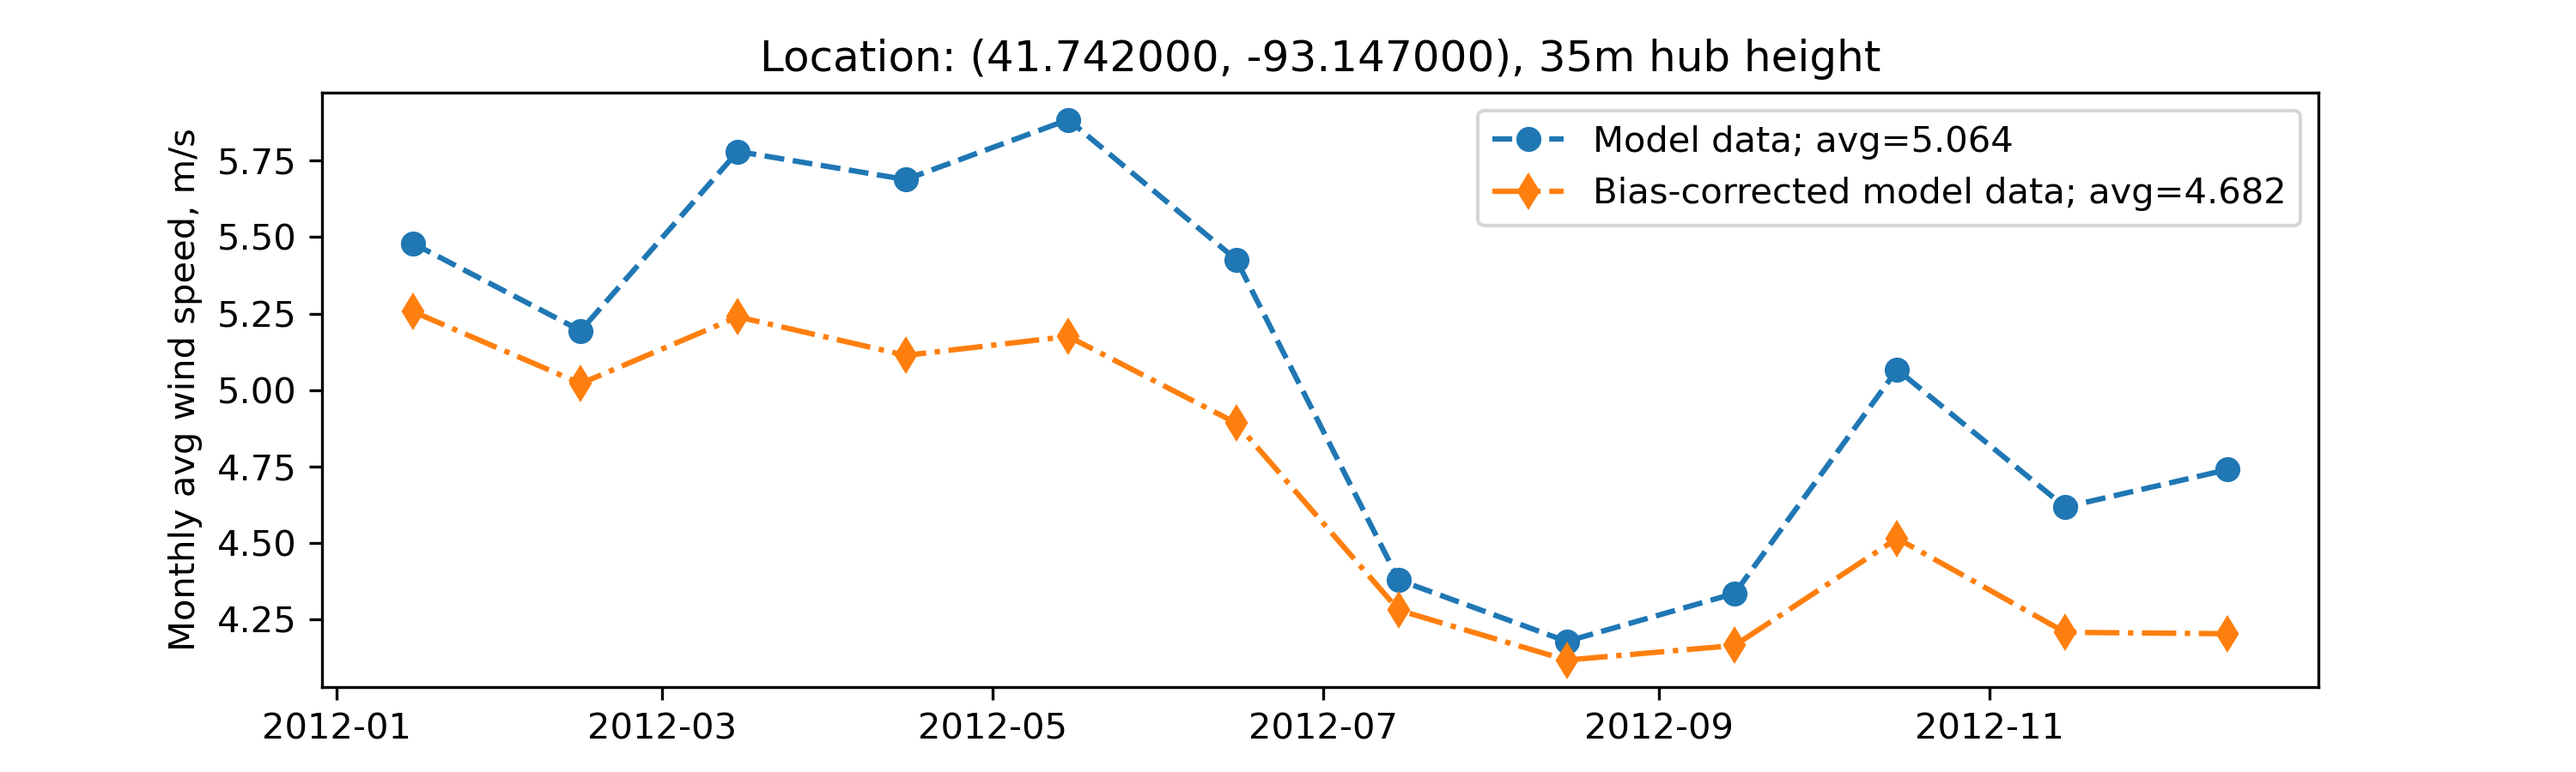
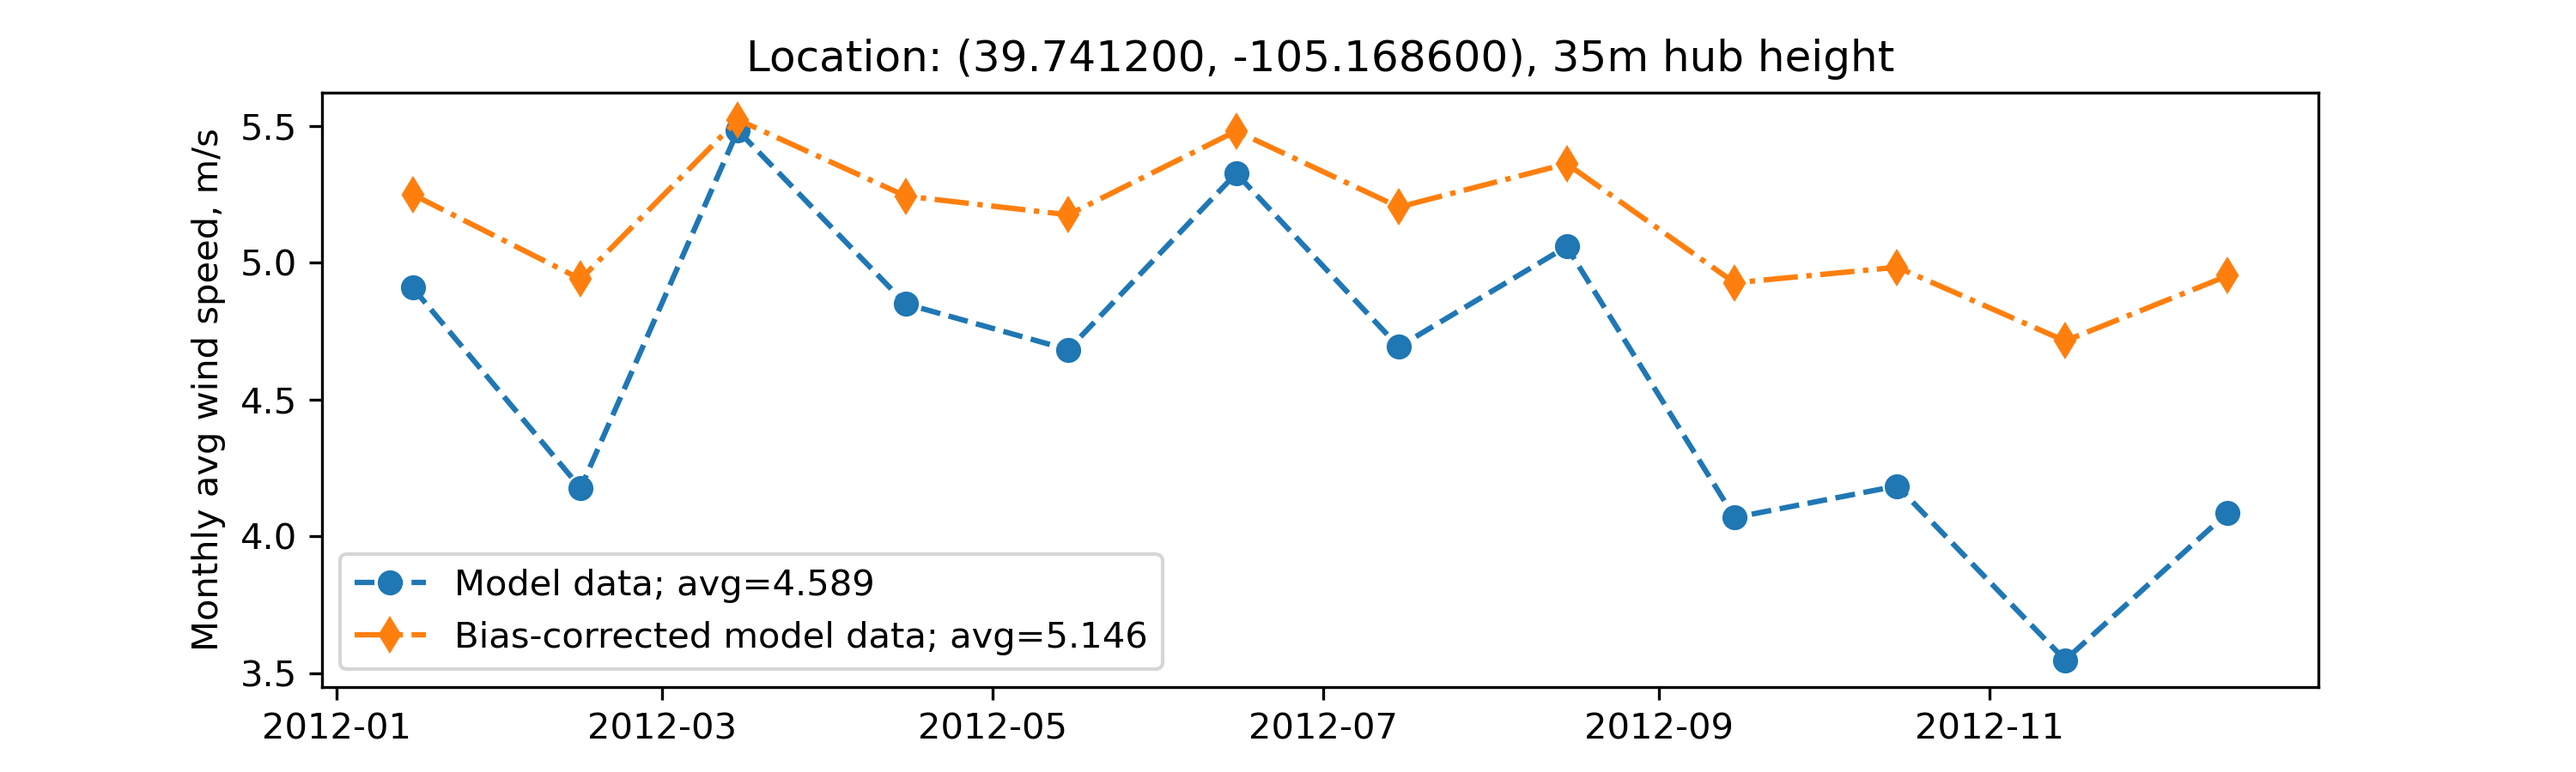
More frontend polishing

diff --git a/templates/info.html b/templates/info.html
@@ -235,22 +235,22 @@
             </tr>
           <tr>
             <td><strong>Plot monthly averages</strong></td>
-            <td><a href="http://localhost:8080/monthly?height=65.00m&lat=39.743&lon=-105.147&year=2012,2013" target="_blank">http://localhost:8080/monthly?<mark>height=65.00m</mark>&<mark>lat=39.743</mark>&<mark>lon=-105.147</mark>&<mark>year=2013</mark></a></td>
+            <td><a href="http://localhost:8080/monthly?height=35.00m&lat=39.7412&lon=-105.1686&year=2012,2013" target="_blank">http://localhost:8080/monthly?<mark>height=35.00m</mark>&<mark>lat=39.7412</mark>&<mark>lon=-105.1686</mark>&<mark>year=2013</mark></a></td>
             <td>Aggregate to monthly averages and show one or several years of model data.</td>
           </tr>
           <tr>
             <td><strong>12x24 (hourly x monthly) summary</strong></td>
-            <td><a href="http://localhost:8080/12x24?height=65.00m&lat=39.743&lon=-105.147&year=2012" target="_blank">http://localhost:8080/12x24?<mark>height=65.00m</mark>&<mark>lat=39.743</mark>&<mark>lon=-105.147</mark></a></td>
+            <td><a href="http://localhost:8080/12x24?height=35.00m&lat=39.7412&lon=-105.1686&year=2012" target="_blank">http://localhost:8080/12x24?<mark>height=35.00m</mark>&<mark>lat=39.7412</mark>&<mark>lon=-105.1686</mark></a></td>
             <td>This summary allows seeing diurnal and seasonal patterns in wind data.</td>
           </tr>
           <tr>
             <td><strong>Raw time series</strong></td>
-            <td><a href="http://localhost:8080/ts?height=65.00m&lat=39.743&lon=-105.147&year=2012" target="_blank" rel="noopener noreferrer">http://localhost:8080/ts?<mark>height=65.00m</mark>&<mark>lat=39.743</mark>&<mark>lon=-105.147</mark></a></td>
+            <td><a href="http://localhost:8080/ts?height=35.00m&lat=39.7412&lon=-105.1686&year=2012" target="_blank" rel="noopener noreferrer">http://localhost:8080/ts?<mark>height=35.00m</mark>&<mark>lat=39.7412</mark>&<mark>lon=-105.1686</mark></a></td>
             <td width="350px">Less user-friendly interface that allows external computational tools, dashboards, etc. access TAP's wind data.</td>
           </tr>
           <tr>
             <td><strong>Bias-corrected wind speeds<sup>(NEW)</sup></strong></td>
-            <td><a href="http://localhost:8080/bc?height=65.00m&lat=39.743&lon=-105.147&year=2012" target="_blank" rel="noopener noreferrer">http://localhost:8080/bc?<mark>height=35.00m</mark>&<mark>lat=41.2</mark>&<mark>lon=-93.18</mark>&<mark>year=2011</mark></a></td>
+            <td><a href="http://localhost:8080/bc?height=35.00m&lat=39.7412&lon=-105.1686&year=2012" target="_blank" rel="noopener noreferrer">http://localhost:8080/bc?<mark>height=35.00m</mark>&<mark>lat=39.7412</mark>&<mark>lon=-105.1686</mark>&<mark>year=2011</mark></a></td>
             <td width="350px">Apply bias correction using observational data and show monthly average wind speeds, with and without bias correction.</td>
           </tr>
         </table>

diff --git a/templates/universal_info.html b/templates/universal_info.html
@@ -235,22 +235,22 @@
             </tr>
           <tr>
             <td><strong>Plot monthly averages</strong></td>
-            <td><a href="URL_PREFIX/monthly?height=65.00m&lat=39.743&lon=-105.147&year=2012,2013" target="_blank">URL_PREFIX/monthly?<mark>height=65.00m</mark>&<mark>lat=39.743</mark>&<mark>lon=-105.147</mark>&<mark>year=2013</mark></a></td>
+            <td><a href="URL_PREFIX/monthly?height=35.00m&lat=39.7412&lon=-105.1686&year=2012,2013" target="_blank">URL_PREFIX/monthly?<mark>height=35.00m</mark>&<mark>lat=39.7412</mark>&<mark>lon=-105.1686</mark>&<mark>year=2013</mark></a></td>
             <td>Aggregate to monthly averages and show one or several years of model data.</td>
           </tr>
           <tr>
             <td><strong>12x24 (hourly x monthly) summary</strong></td>
-            <td><a href="URL_PREFIX/12x24?height=65.00m&lat=39.743&lon=-105.147&year=2012" target="_blank">URL_PREFIX/12x24?<mark>height=65.00m</mark>&<mark>lat=39.743</mark>&<mark>lon=-105.147</mark></a></td>
+            <td><a href="URL_PREFIX/12x24?height=35.00m&lat=39.7412&lon=-105.1686&year=2012" target="_blank">URL_PREFIX/12x24?<mark>height=35.00m</mark>&<mark>lat=39.7412</mark>&<mark>lon=-105.1686</mark></a></td>
             <td>This summary allows seeing diurnal and seasonal patterns in wind data.</td>
           </tr>
           <tr>
             <td><strong>Raw time series</strong></td>
-            <td><a href="URL_PREFIX/ts?height=65.00m&lat=39.743&lon=-105.147&year=2012" target="_blank" rel="noopener noreferrer">URL_PREFIX/ts?<mark>height=65.00m</mark>&<mark>lat=39.743</mark>&<mark>lon=-105.147</mark></a></td>
+            <td><a href="URL_PREFIX/ts?height=35.00m&lat=39.7412&lon=-105.1686&year=2012" target="_blank" rel="noopener noreferrer">URL_PREFIX/ts?<mark>height=35.00m</mark>&<mark>lat=39.7412</mark>&<mark>lon=-105.1686</mark></a></td>
             <td width="350px">Less user-friendly interface that allows external computational tools, dashboards, etc. access TAP's wind data.</td>
           </tr>
           <tr>
             <td><strong>Bias-corrected wind speeds<sup>(NEW)</sup></strong></td>
-            <td><a href="URL_PREFIX/bc?height=65.00m&lat=39.743&lon=-105.147&year=2012" target="_blank" rel="noopener noreferrer">URL_PREFIX/bc?<mark>height=35.00m</mark>&<mark>lat=41.2</mark>&<mark>lon=-93.18</mark>&<mark>year=2011</mark></a></td>
+            <td><a href="URL_PREFIX/bc?height=35.00m&lat=39.7412&lon=-105.1686&year=2012" target="_blank" rel="noopener noreferrer">URL_PREFIX/bc?<mark>height=35.00m</mark>&<mark>lat=39.7412</mark>&<mark>lon=-105.1686</mark>&<mark>year=2011</mark></a></td>
             <td width="350px">Apply bias correction using observational data and show monthly average wind speeds, with and without bias correction.</td>
           </tr>
         </table>

diff --git a/templates/on_map.html b/templates/on_map.html
@@ -379,7 +379,7 @@
                 <label for="fname">Hub height, meters:</label>
                 </td>
                 <td>
-                <input type="text" class="text_field" id="hub_height" value="40"><br>
+                <input type="text" class="text_field" id="hub_height" value="35"><br>
                 </td>
             </form>
           </tr>
@@ -389,7 +389,7 @@
                 <label for="fname">Years (2007,...,2013):</label>
                 </td>
                 <td>
-                <input type="text" class="text_field" id="years" value="2012,2013"><br>
+                <input type="text" class="text_field" id="years" value="2013"><br>
                 </td>
             </form>
           </tr>
@@ -402,6 +402,8 @@
              <label for="contactChoice2">12x24 table&nbsp;&nbsp;&nbsp;</label>
              <input type="radio" id="choice_ts" name="contact" value="ts" />
              <label for="contactChoice3">Raw timeseries&nbsp;&nbsp;&nbsp;</label>
+             <input type="radio" id="choice_bc" name="contact" value="bc" />
+             <label for="contactChoice4">Bias-corrected wind speeds</label>
            </div>
             </td>
           </tr >
@@ -439,24 +441,26 @@ function getWindData() {
   } else if (document.getElementById('choice_12x24').checked) {
       endpoint = "12x24";
   }
-  else {
-    endpoint = "ts";
+  else if (document.getElementById('choice_bc').checked) {
+      endpoint = "bc";
   }
-  // Old way: works locally, fails in AWS
-  //window.location.href = "http://localhost:8080" +"/" + endpoint + "?height=" + hub_height + "m&lat=" + lat + "&lon=" + lon + "&year=" + years;
+  else {
+      endpoint = "ts";
+  }
+  window.location.href = "http://localhost:8080" +"/" + endpoint + "?height=" + hub_height + "m&lat=" + lat + "&lon=" + lon + "&year=" + years;
   // New way: opens a new tab
-  window.open(
-    "http://localhost:8080" +"/" + endpoint + "?height=" + hub_height + "m&lat=" + lat + "&lon=" + lon + "&year=" + years,
-    '_blank' // <- This is what makes it open in a new window.
-    );
+  //window.open(
+  //  "http://localhost:8080" +"/" + endpoint + "?height=" + hub_height + "m&lat=" + lat + "&lon=" + lon + "&year=" + years,
+  //  '_blank' // <- This is what makes it open in a new window.
+  //  );
 }
 </script>
 
 <script>
 
 // Coords are for NREL East Gate -- starting point for the clickable map
-const latitude = 39.740400605028825;
-const longitude = -105.16842185631096;
+const latitude = 39.74112;
+const longitude = -105.1686;
 const zoom = 11;
 
 // Set DIV element to embed map

diff --git a/templates/by_address.html b/templates/by_address.html
@@ -371,7 +371,7 @@
                 <label for="fname">Hub height, meters:</label>
                 </td>
                 <td>
-                <input type="text" class="text_field" id="hub_height" value="40"><br>
+                <input type="text" class="text_field" id="hub_height" value="35"><br>
                 </td>
             </form>
           </tr>
@@ -381,7 +381,7 @@
                 <label for="fname">Years (2007,...,2013):</label>
                 </td>
                 <td>
-                <input type="text" class="text_field" id="years" value="2012,2013"><br>
+                <input type="text" class="text_field" id="years" value="2013"><br>
                 </td>
             </form>
           </tr>
@@ -394,6 +394,8 @@
              <label for="contactChoice2">12x24 table&nbsp;&nbsp;&nbsp;</label>
              <input type="radio" id="choice_ts" name="contact" value="ts" />
              <label for="contactChoice3">Raw timeseries&nbsp;&nbsp;&nbsp;</label>
+             <input type="radio" id="choice_bc" name="contact" value="bc" />
+             <label for="contactChoice4">Bias-corrected wind speeds</label>
            </div>
             </td>
           </tr >
@@ -474,18 +476,21 @@ function getWindData() {
       } else if (document.getElementById('choice_12x24').checked) {
           endpoint = "12x24";
       }
+      else if (document.getElementById('choice_bc').checked) {
+          endpoint = "bc";
+      }
       else {
         endpoint = "ts";
       }
 
       document.getElementById("fetching_msg").innerHTML = "";
-      // Old way: works locally, fails in AWS
-      //window.location.href = "http://localhost:8080" + "/" + endpoint + "?height=" + hub_height + "m&" + latlon + "&year=" + years;
+
+      window.location.href = "http://localhost:8080" + "/" + endpoint + "?height=" + hub_height + "m&" + latlon + "&year=" + years;
       // New way: opens a new tab
-      window.open(
-        "http://localhost:8080" + "/" + endpoint + "?height=" + hub_height + "m&" + latlon + "&year=" + years,
-        '_blank' // <- This is what makes it open in a new window.
-        );
+      //window.open(
+      //  "http://localhost:8080" + "/" + endpoint + "?height=" + hub_height + "m&" + latlon + "&year=" + years,
+      //  '_blank' // <- This is what makes it open in a new window.
+      //  );
       }
     }
   );

diff --git a/templates/universal_on_map.html b/templates/universal_on_map.html
@@ -379,7 +379,7 @@
                 <label for="fname">Hub height, meters:</label>
                 </td>
                 <td>
-                <input type="text" class="text_field" id="hub_height" value="40"><br>
+                <input type="text" class="text_field" id="hub_height" value="35"><br>
                 </td>
             </form>
           </tr>
@@ -389,7 +389,7 @@
                 <label for="fname">Years (2007,...,2013):</label>
                 </td>
                 <td>
-                <input type="text" class="text_field" id="years" value="2012,2013"><br>
+                <input type="text" class="text_field" id="years" value="2013"><br>
                 </td>
             </form>
           </tr>
@@ -402,6 +402,8 @@
              <label for="contactChoice2">12x24 table&nbsp;&nbsp;&nbsp;</label>
              <input type="radio" id="choice_ts" name="contact" value="ts" />
              <label for="contactChoice3">Raw timeseries&nbsp;&nbsp;&nbsp;</label>
+             <input type="radio" id="choice_bc" name="contact" value="bc" />
+             <label for="contactChoice4">Bias-corrected wind speeds</label>
            </div>
             </td>
           </tr >
@@ -439,8 +441,11 @@ function getWindData() {
   } else if (document.getElementById('choice_12x24').checked) {
       endpoint = "12x24";
   }
+  else if (document.getElementById('choice_bc').checked) {
+      endpoint = "bc";
+  }
   else {
-    endpoint = "ts";
+      endpoint = "ts";
   }
   window.location.href = "URL_PREFIX" +"/" + endpoint + "?height=" + hub_height + "m&lat=" + lat + "&lon=" + lon + "&year=" + years;
   // New way: opens a new tab
@@ -454,8 +459,8 @@ function getWindData() {
 <script>
 
 // Coords are for NREL East Gate -- starting point for the clickable map
-const latitude = 39.740400605028825;
-const longitude = -105.16842185631096;
+const latitude = 39.74112;
+const longitude = -105.1686;
 const zoom = 11;
 
 // Set DIV element to embed map

diff --git a/templates/universal_by_address.html b/templates/universal_by_address.html
@@ -371,7 +371,7 @@
                 <label for="fname">Hub height, meters:</label>
                 </td>
                 <td>
-                <input type="text" class="text_field" id="hub_height" value="40"><br>
+                <input type="text" class="text_field" id="hub_height" value="35"><br>
                 </td>
             </form>
           </tr>
@@ -381,7 +381,7 @@
                 <label for="fname">Years (2007,...,2013):</label>
                 </td>
                 <td>
-                <input type="text" class="text_field" id="years" value="2012,2013"><br>
+                <input type="text" class="text_field" id="years" value="2013"><br>
                 </td>
             </form>
           </tr>
@@ -394,6 +394,8 @@
              <label for="contactChoice2">12x24 table&nbsp;&nbsp;&nbsp;</label>
              <input type="radio" id="choice_ts" name="contact" value="ts" />
              <label for="contactChoice3">Raw timeseries&nbsp;&nbsp;&nbsp;</label>
+             <input type="radio" id="choice_bc" name="contact" value="bc" />
+             <label for="contactChoice4">Bias-corrected wind speeds</label>
            </div>
             </td>
           </tr >
@@ -473,6 +475,9 @@ function getWindData() {
           endpoint = "monthly";
       } else if (document.getElementById('choice_12x24').checked) {
           endpoint = "12x24";
+      }
+      else if (document.getElementById('choice_bc').checked) {
+          endpoint = "bc";
       }
       else {
         endpoint = "ts";

diff --git a/templates/bc_index.html b/templates/bc_index.html
@@ -258,6 +258,5 @@ update();
 </html>
 <!--
 Notes:
-http://localhost:8080 (2 places) will be populated when universal_bc_index.html becomes bc_index.html for the current environment (AWS or not)
-NEED_SPECIFIC_REQ_ID, NEED_SPECIFIC_LAT and NEED_SPECIFIC_LON will be populated in the second pass, when ts_index.htm becomes served/bc_<req_id>.html
+http://localhost:8080 (1 place) will be populated when universal_bc_index.html becomes bc_index.html for the current environment (AWS or not)
 -->

diff --git a/proto.py b/proto.py
@@ -89,13 +89,31 @@ def plot_monthly_avg(atmospheric_df, ws_column="ws", datetime_column="datetime",
     fig, ax = plt.subplots(figsize=(10, 3))
     xvals = list(range(1, 13)) # for showing monthly data
 
-    for year, grp in df.groupby("year"):
-        monthly_avg = grp[[ws_column, "month"]].groupby("month").agg("mean")
-        ax.plot(monthly_avg, label=str(year), linestyle="--", alpha=0.4)
+    nyears = df["year"].nunique()
+    if nyears > 1:
+        for year, grp in df.groupby("year"):
+            monthly_avg = grp[[ws_column, "month"]].groupby("month").agg("mean")
+            ax.plot(monthly_avg, label=str(year), linestyle="--", alpha=0.4)
 
-    if show_avg_across_years:
+        if show_avg_across_years:
+            monthly_avg_across_years = df.groupby("month")[ws_column].agg("mean")
+            ax.plot(monthly_avg_across_years, label="Avg across years (labeled)", marker="o")
+            if label_avg_across_years:
+                ylim0 = ax.get_ylim()[0]
+                ylim1 = ax.get_ylim()[1]
+                yoffset = ylim1 / 20  # express offest as a fraction of height
+                yvals = pd.Series(monthly_avg_across_years.tolist())
+                a = pd.concat({'x': pd.Series(xvals),
+                               'y': yvals,
+                               'val': yvals}, axis=1)
+                for i, point in a.iterrows():
+                    t = ax.text(point['x'], point['y'] + yoffset, "%.2f" % point['val'], fontsize=7)
+                    t.set_bbox(dict(facecolor='lightgray', alpha=0.75, edgecolor='red'))
+                ax.set_ylim([ylim0, ylim1*1.25])
+    else:
+        single_year = df["year"].tolist()[0]
         monthly_avg_across_years = df.groupby("month")[ws_column].agg("mean")
-        ax.plot(monthly_avg_across_years, label="Avg across years (labeled)", marker="o")
+        ax.plot(monthly_avg_across_years, linestyle="--", label="Year: " + str(single_year), marker="o")
         if label_avg_across_years:
             ylim0 = ax.get_ylim()[0]
             ylim1 = ax.get_ylim()[1]
